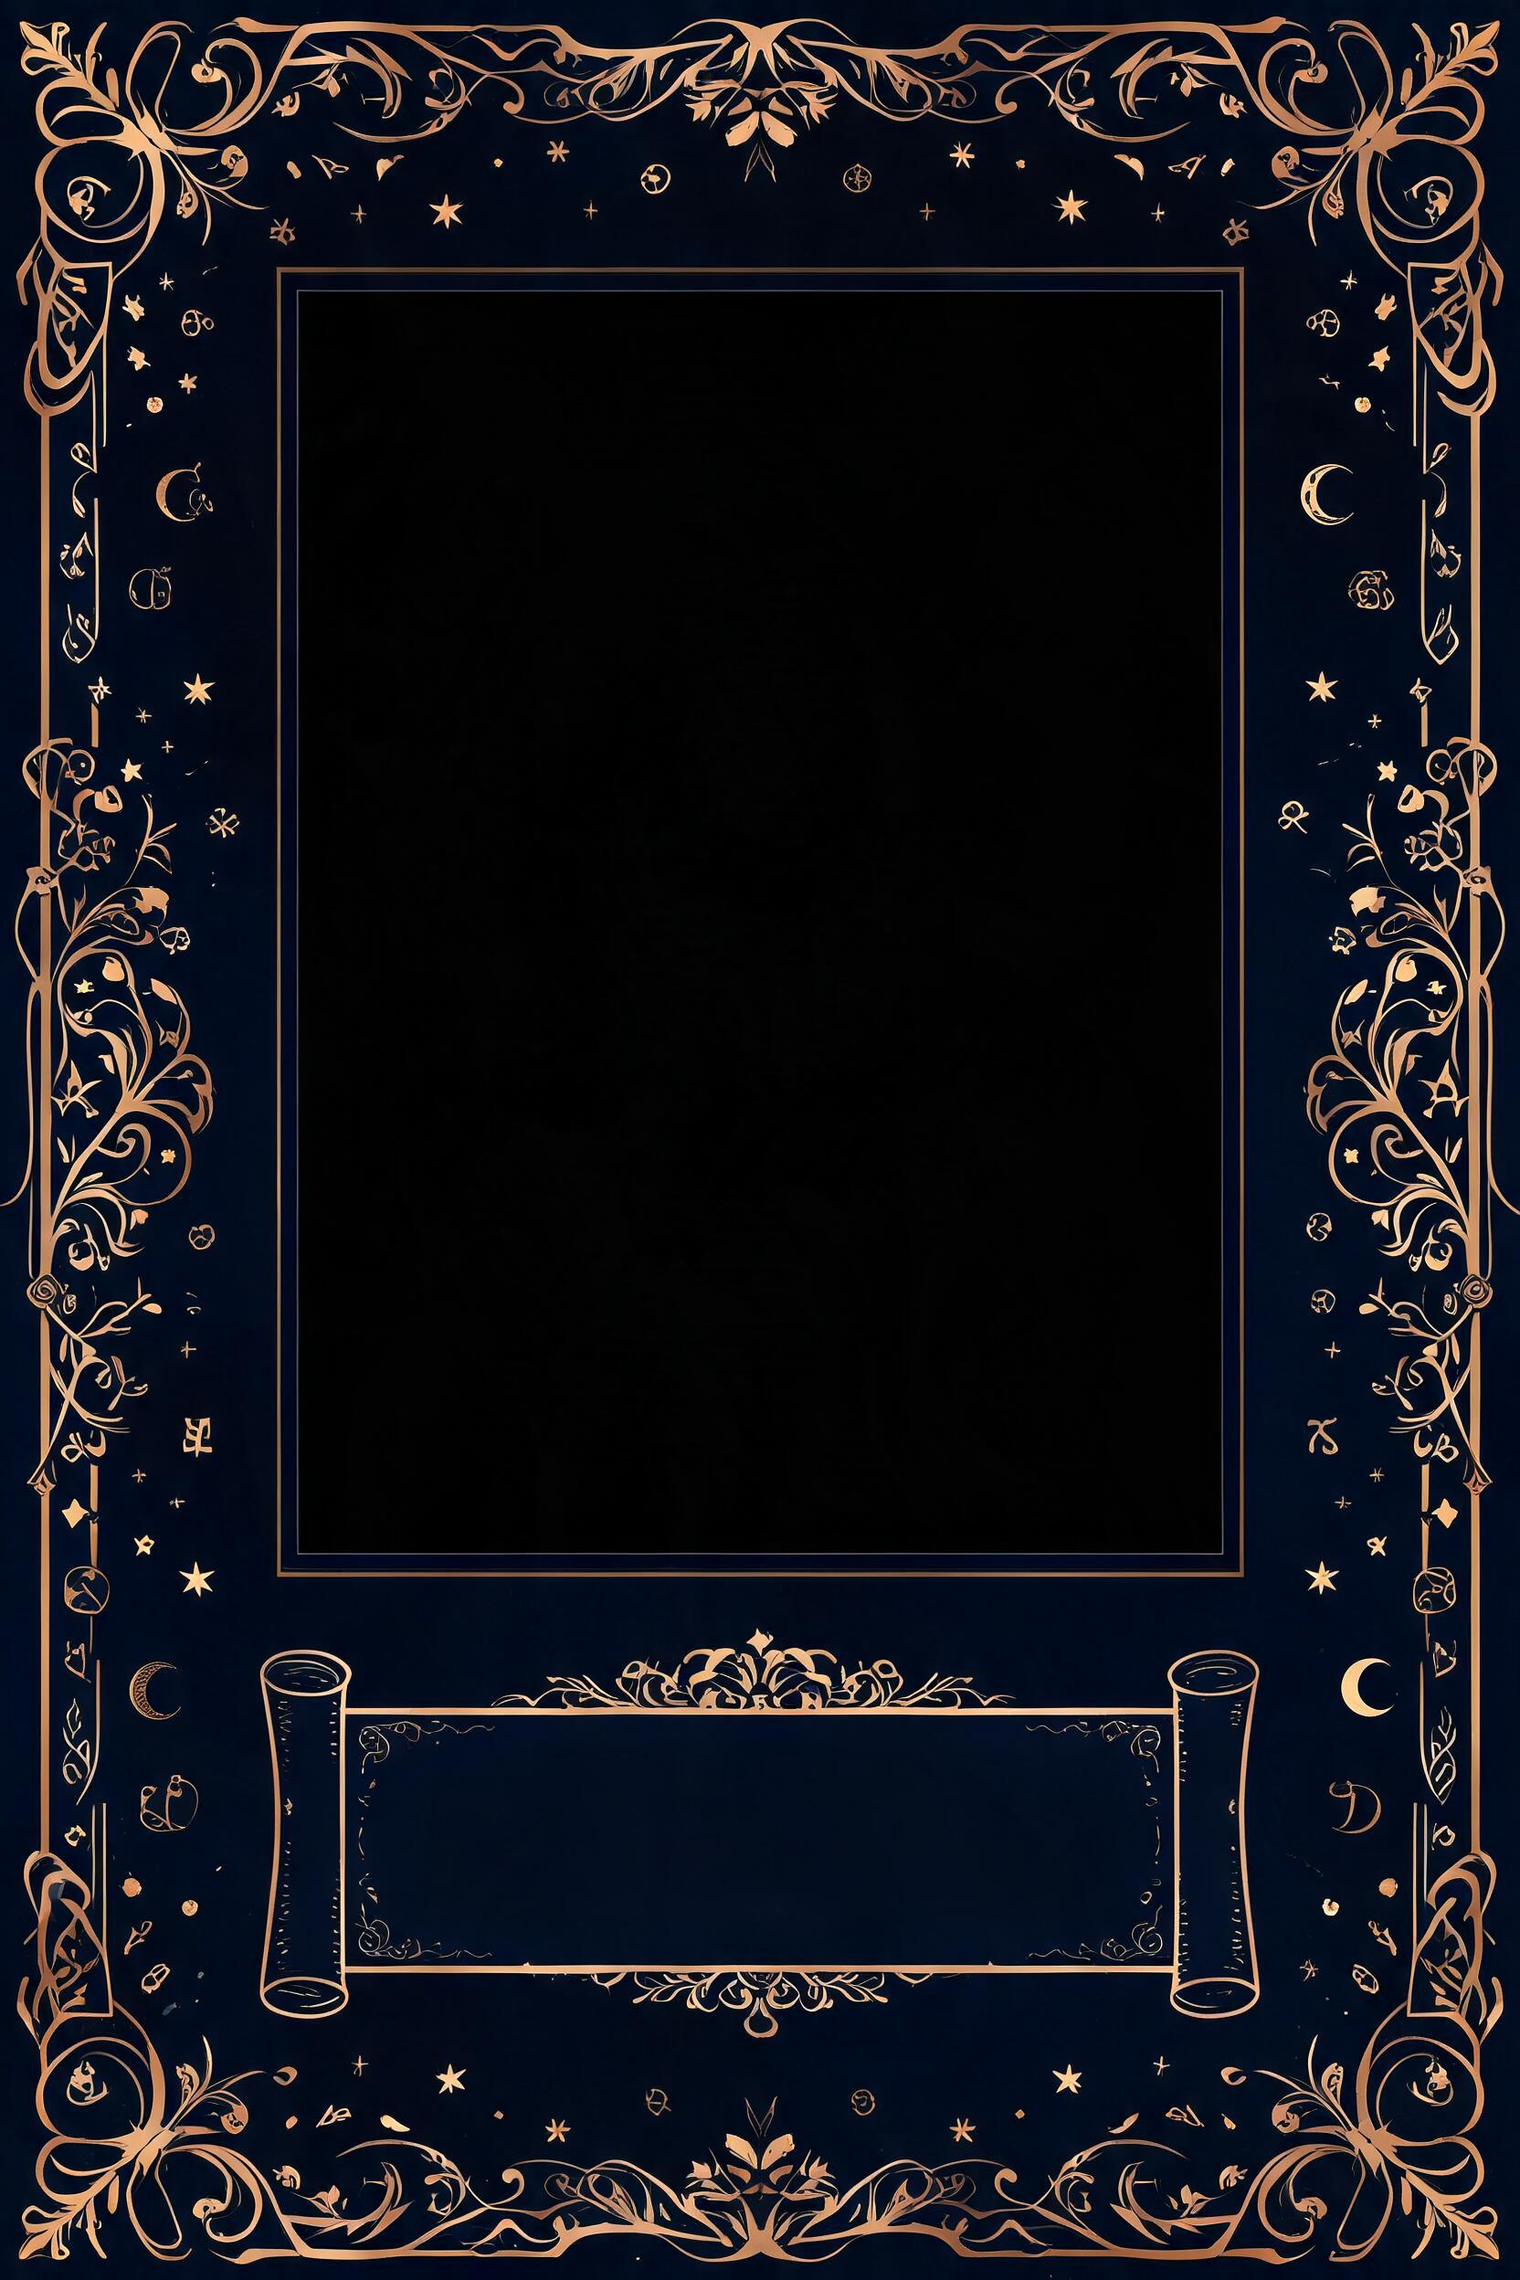
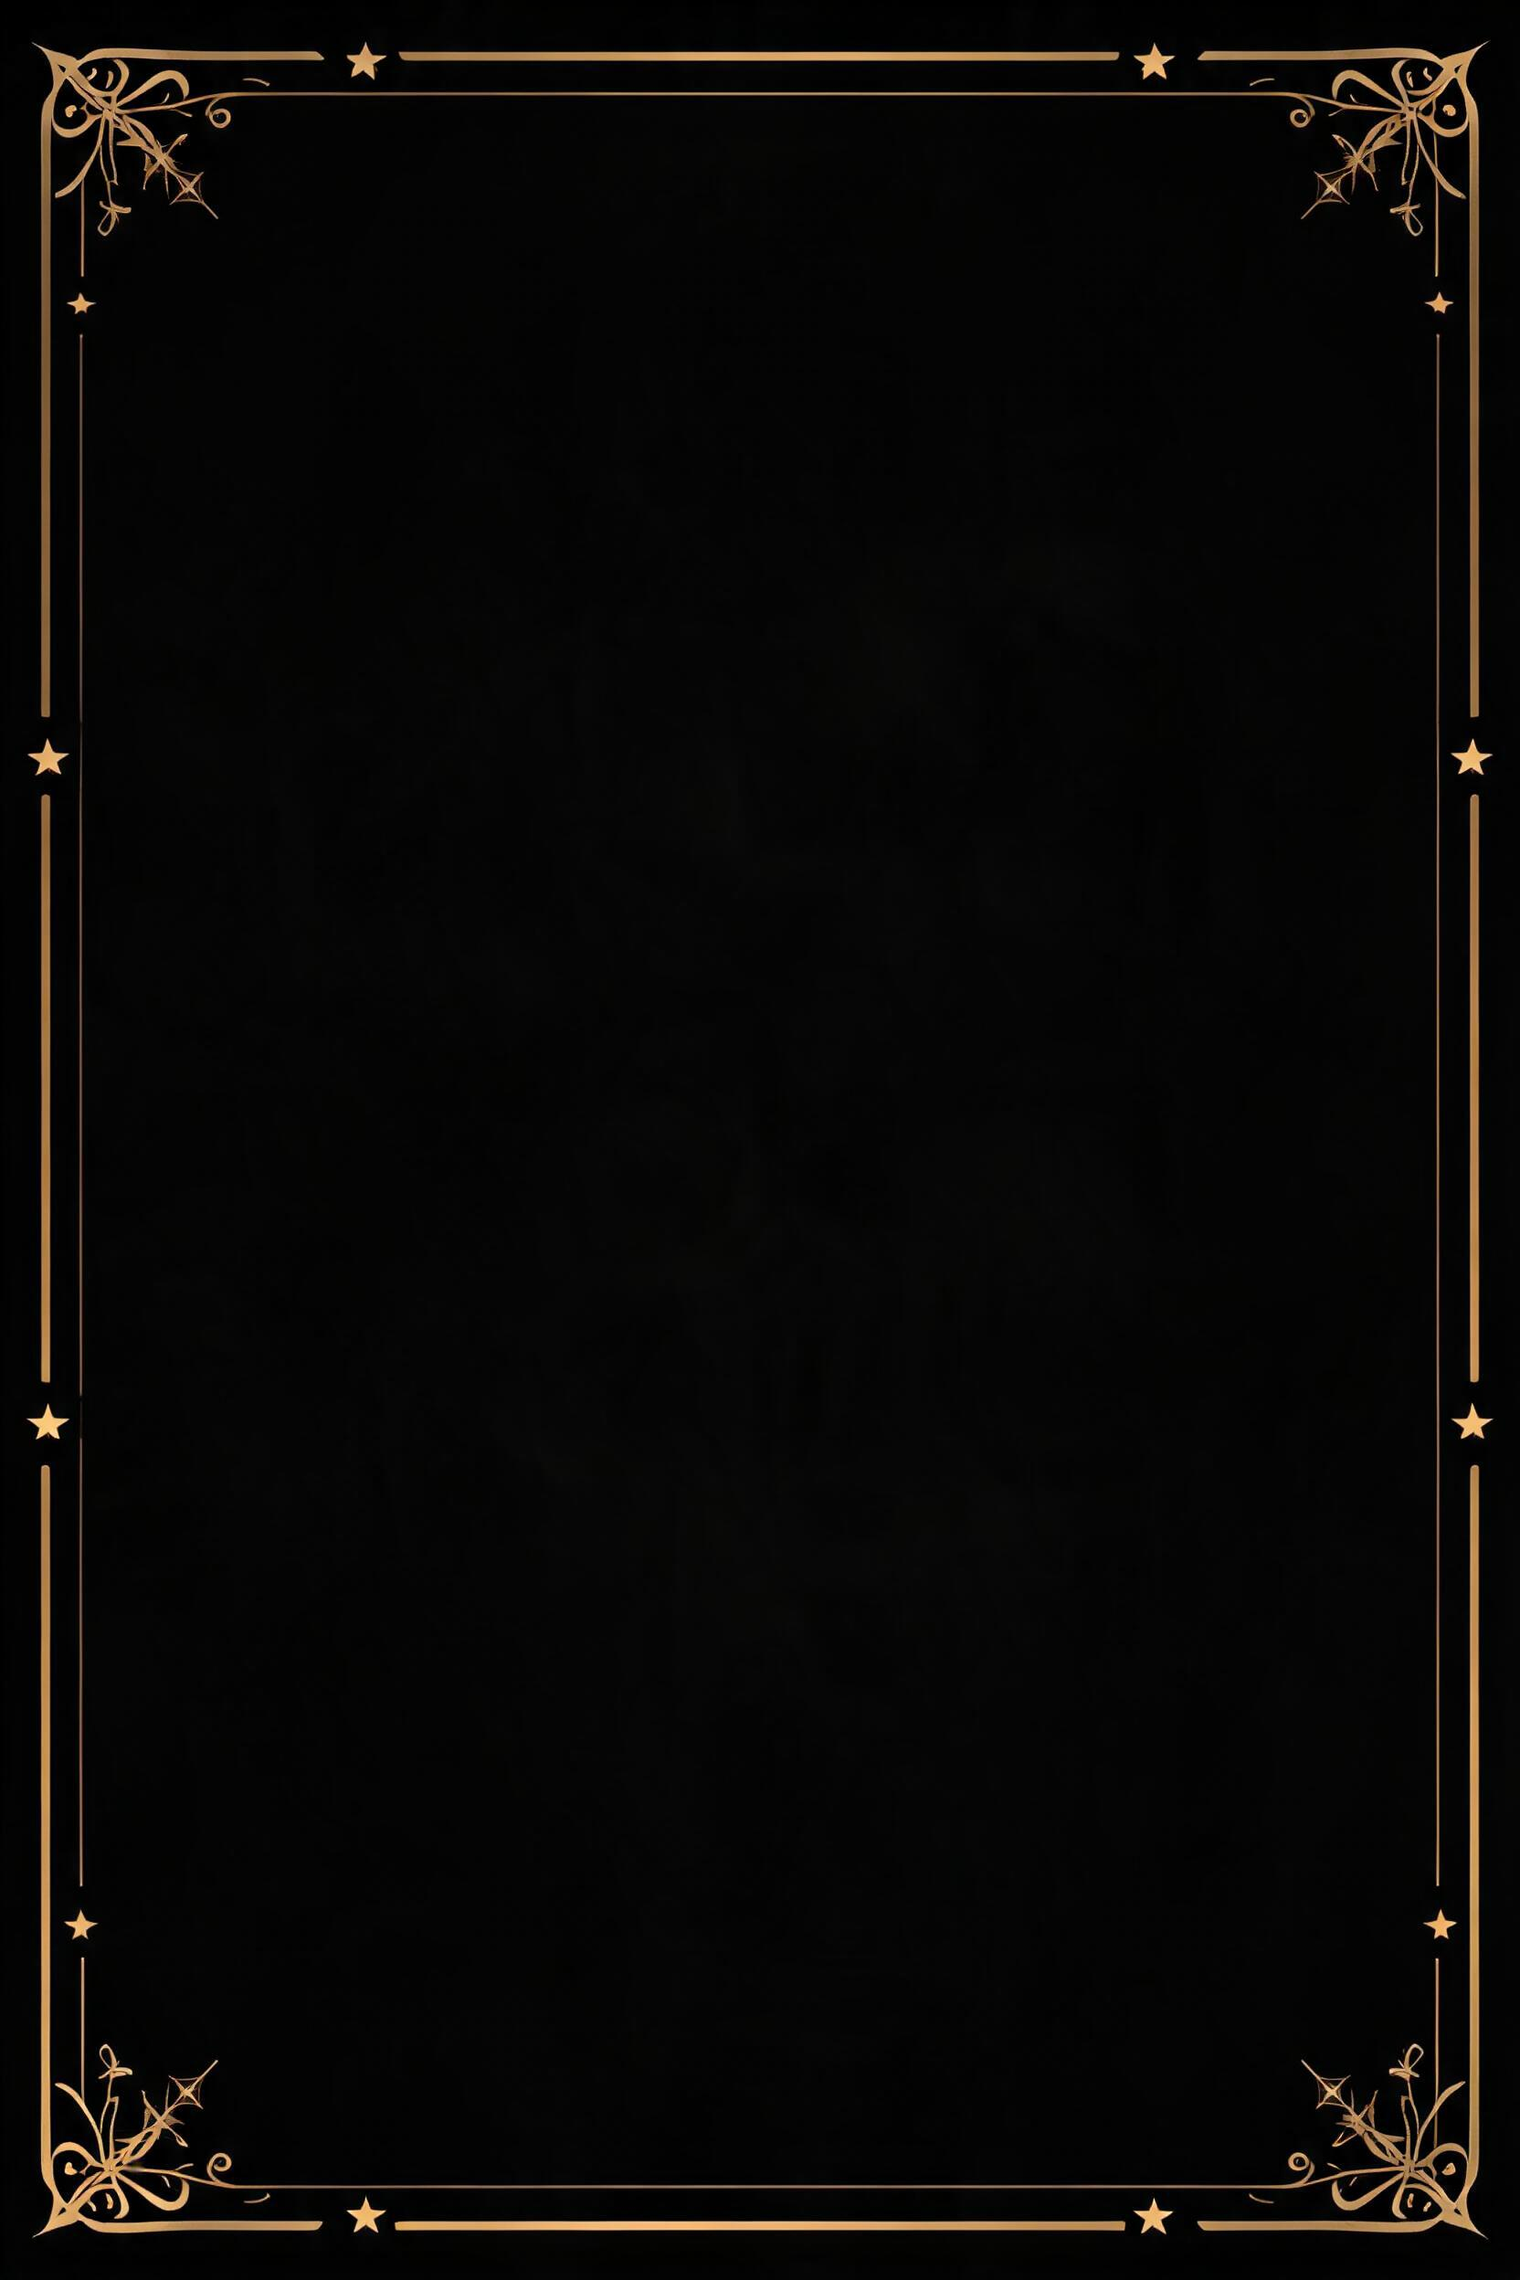
fix: 卡牌改极简细边版式——封面全幅铺满，卡片看上去就是图本身
按反馈重新用 Seedream 生成纤细边框（纯黑底 + 四周约 3% 宽的古金
魔法细线 + 小角饰；像素实测边宽 3.5%/2.7%、内部亮度均值 4.6）：
- 封面图全幅铺满整卡（原画窗版式封面只占 62%），细边框 screen
  混合叠加发光，不占画面
- 题名压缩成底部一条渐变字幕：单行居中衬线小字，副题同行更小号
  （字幕区仅 12.8% 高且上半为透明渐变）
- 类型宝石徽记缩小到 10.5% 宽
- 3D 桌面卡面同步：全幅封面 + 圆角裁剪 + 同款字幕条/徽记，
  与 2D 共用同一张框图与布局常量

diff --git a/src/components/TarotCard.tsx b/src/components/TarotCard.tsx
@@ -1,16 +1,17 @@
-// 塔罗风实体卡牌：卡框是 Seedream 生成的真实装饰边框（/cards/tarot-frame.jpg，
-// 古铜金魔法纹饰 + 纯黑画窗 + 卷轴题名牌匾），封面图铺满画窗最大化展示，
-// 类型以画窗角上的宝石徽记标注，题名按塔罗牌版式在下部牌匾居中衬线排印。
-// 画窗/牌匾的边界常量来自对生成图的像素探测（窗 y 5.7%~68.7%、x 13.5%~85.5%，
-// 牌匾平坦区 y 75%~86%）——换框图必须重新探测这组值。
+// 塔罗风实体卡牌：卡框是 Seedream 生成的真实装饰细边（/cards/tarot-frame.jpg，
+// 纯黑底 + 四周 ~3% 宽的古金魔法纹饰线 + 小角饰；像素实测边宽 3.5%/2.7%、
+// 内部亮度均值 4.6=纯黑）。封面图**全幅铺满整卡**（卡片看上去就是图本身），
+// 细边框经 screen 混合叠在图上发光；题名压缩为底部一条渐变里的单行小字，
+// 类型是左上角一枚小宝石徽记——边框/文字/徽记合计只占极小面积。
 import { CARD_TYPE_COLORS, CARD_TYPE_LABELS, CardType } from "../types";
 
 export const TAROT_FRAME_URL = "/cards/tarot-frame.jpg";
 
-/** 画窗与题名区在整卡中的相对边界（与 3D 卡面纹理共用同一组常量） */
+/** 封面区与题名条在整卡中的相对边界（与 3D 卡面纹理共用同一组常量）。
+ *  细边框方案下封面全幅；banner 只是底部一条渐变字幕区。 */
 export const TAROT_LAYOUT = {
-  win: { left: 0.138, top: 0.06, width: 0.714, height: 0.622 },
-  banner: { top: 0.72, height: 0.21 },
+  win: { left: 0, top: 0, width: 1, height: 1 },
+  banner: { top: 0.87, height: 0.13 },
 };
 
 /** 类型徽记单字：宝石章里放不下三个字，取最具辨识度的一个 */
@@ -42,51 +43,39 @@ export default function TarotCard({
   size?: "sm" | "md";
 }) {
   const color = type ? CARD_TYPE_COLORS[type] : "#fbbf24";
-  const L = TAROT_LAYOUT;
   return (
     <div
-      className={`relative aspect-[2/3] w-full select-none overflow-hidden rounded-[6%] bg-[#0a0f22] ${
+      className={`relative aspect-[2/3] w-full select-none overflow-hidden rounded-[5%] bg-black ${
         active ? "ring-2 ring-gold shadow-[0_0_14px_rgba(251,191,36,0.45)]" : ""
       }`}
     >
-      {/* 封面铺满画窗（先画） */}
-      <div
-        className="absolute overflow-hidden"
-        style={{
-          left: `${L.win.left * 100}%`,
-          top: `${L.win.top * 100}%`,
-          width: `${L.win.width * 100}%`,
-          height: `${L.win.height * 100}%`,
-        }}
-      >
-        {cover ? (
-          <img src={cover} alt="" className="absolute inset-0 h-full w-full object-cover" />
-        ) : (
-          <div className="absolute inset-0 flex items-center justify-center text-2xl opacity-50">🔮</div>
-        )}
-      </div>
-      {/* 魔法边框叠在封面之上：画窗是纯黑的，混合模式 screen 让边框区不透明、
-          画窗区完全透出封面——省去抠透明通道 */}
+      {/* 封面全幅铺满——卡片看上去就是图本身 */}
+      {cover ? (
+        <img src={cover} alt="" className="absolute inset-0 h-full w-full object-cover" />
+      ) : (
+        <div className="absolute inset-0 flex items-center justify-center text-3xl opacity-40">🔮</div>
+      )}
+      {/* 纤细魔法边框叠加：框图内部纯黑，screen 混合下黑=透明，只有金线发光 */}
       <img
         src={TAROT_FRAME_URL}
         alt=""
         className="pointer-events-none absolute inset-0 h-full w-full mix-blend-screen"
       />
-      {/* 类型宝石徽记（特别标注，不占画面）：悬浮在画窗左上角 */}
+      {/* 类型宝石徽记：左上角一枚小章 */}
       {type && (
         <div
           className={`absolute flex items-center justify-center rounded-full font-bold ${
-            size === "md" ? "text-[13px]" : "text-[10px]"
+            size === "md" ? "text-[11px]" : "text-[9px]"
           }`}
           style={{
-            left: `${(L.win.left + 0.015) * 100}%`,
-            top: `${(L.win.top + 0.012) * 100}%`,
-            width: "13.5%",
+            left: "4.5%",
+            top: "3.2%",
+            width: "10.5%",
             aspectRatio: "1",
             color,
-            border: `2px solid ${color}`,
-            background: "rgba(6,10,25,0.82)",
-            boxShadow: `0 0 8px ${color}aa, inset 0 0 6px ${color}55`,
+            border: `1.5px solid ${color}`,
+            background: "rgba(4,7,18,0.72)",
+            boxShadow: `0 0 6px ${color}99`,
             fontFamily: SERIF,
           }}
           title={CARD_TYPE_LABELS[type]}
@@ -94,29 +83,24 @@ export default function TarotCard({
           {TYPE_GLYPH[type]}
         </div>
       )}
-      {/* 塔罗式题名：下部牌匾居中、衬线、字距拉开、淡金色 */}
-      <div
-        className="absolute flex flex-col items-center justify-center px-[12%]"
-        style={{ top: `${L.banner.top * 100}%`, height: `${L.banner.height * 100}%`, left: 0, right: 0 }}
-      >
-        <div
-          className={`max-w-full truncate text-center font-bold text-amber-100 ${
-            size === "md" ? "text-[15px]" : "text-[11px]"
-          }`}
-          style={{ fontFamily: SERIF, letterSpacing: "0.18em", textShadow: "0 0 6px rgba(251,191,36,0.35)" }}
-        >
-          {title}
-        </div>
-        {sub && (
-          <div
-            className={`mt-0.5 max-w-full truncate text-center text-amber-200/65 ${
-              size === "md" ? "text-[10px]" : "text-[8px]"
-            }`}
-            style={{ fontFamily: SERIF, letterSpacing: "0.3em" }}
+      {/* 题名：底部一条渐变字幕，单行居中衬线小字（塔罗排版但只占极小高度） */}
+      <div className="absolute inset-x-0 bottom-0 bg-gradient-to-t from-black/85 via-black/45 to-transparent px-[7%] pb-[4.5%] pt-[10%]">
+        <div className="flex items-baseline justify-center gap-1 overflow-hidden whitespace-nowrap text-center">
+          <span
+            className={`truncate font-bold text-amber-100 ${size === "md" ? "text-[13px]" : "text-[10px]"}`}
+            style={{ fontFamily: SERIF, letterSpacing: "0.14em", textShadow: "0 0 5px rgba(251,191,36,0.35)" }}
           >
-            {sub}
-          </div>
-        )}
+            {title}
+          </span>
+          {sub && (
+            <span
+              className={`flex-none text-amber-200/60 ${size === "md" ? "text-[9px]" : "text-[7px]"}`}
+              style={{ fontFamily: SERIF, letterSpacing: "0.12em" }}
+            >
+              {sub}
+            </span>
+          )}
+        </div>
       </div>
     </div>
   );

diff --git a/src/studio/scene/cardTexture.ts b/src/studio/scene/cardTexture.ts
@@ -96,83 +96,86 @@ const H = 768;
 
 const SERIF_CANVAS = `'Songti SC','STSong','SimSun','Noto Serif SC',serif`;
 
-/** 素材卡卡面：塔罗版式（生成边框 + 满窗封面 + 牌匾题名 + 类型宝石徽记） */
+/** 素材卡卡面：塔罗细边版式——封面全幅铺满（卡片≈图片本身），纤细生成边框
+ *  screen 叠加发光，底部一条渐变里放单行题名，类型是左上角小宝石徽记。
+ *  与 2D 的 TarotCard 组件共用同一张框图与 TAROT_LAYOUT 常量。 */
 export function cardFaceTexture(card: Card): THREE.CanvasTexture {
   const color = CARD_TYPE_COLORS[card.type];
   const L = TAROT_LAYOUT;
   return texFromDraw(`card:${card.id}`, W, H, [card.cover, TAROT_FRAME_URL], (ctx, [cover, frame]) => {
-    // 卡底
-    roundedPath(ctx, 0, 0, W, H, 30);
-    ctx.fillStyle = "#0a0f22";
+    // 卡底 + 圆角裁剪：封面全幅时不裁剪会把圆角画成方角
+    roundedPath(ctx, 0, 0, W, H, 26);
+    ctx.fillStyle = "#05070f";
     ctx.fill();
-    // 封面铺满画窗
-    const wx = L.win.left * W;
-    const wy = L.win.top * H;
-    const ww = L.win.width * W;
-    const wh = L.win.height * H;
-    if (cover) {
-      ctx.save();
-      ctx.beginPath();
-      ctx.rect(wx, wy, ww, wh);
-      ctx.clip();
-      drawImageCover(ctx, cover, wx, wy, ww, wh);
-      ctx.restore();
-    }
-    // 魔法边框叠加：画窗区是纯黑，screen 混合让封面完整透出、边框纹饰点亮
+    ctx.save();
+    roundedPath(ctx, 0, 0, W, H, 26);
+    ctx.clip();
+    if (cover) drawImageCover(ctx, cover, 0, 0, W, H);
+    // 纤细魔法边框：框图内部纯黑，screen 混合下黑=透明，只有金线发光
     if (frame) {
-      ctx.save();
       ctx.globalCompositeOperation = "screen";
       ctx.drawImage(frame, 0, 0, W, H);
-      ctx.restore();
-    } else {
-      // 框图未就绪的一两帧：先给个细边撑住卡形
-      roundedPath(ctx, 4, 4, W - 8, H - 8, 28);
-      ctx.lineWidth = 6;
-      ctx.strokeStyle = "#8a6d3b";
-      ctx.stroke();
+      ctx.globalCompositeOperation = "source-over";
     }
-    // 类型宝石徽记：画窗左上角（特别标注，不吃画面）
-    const br = W * 0.068;
-    const bx = wx + br + W * 0.012;
-    const by = wy + br + W * 0.012;
+    // 底部渐变字幕条（题名区，占卡面 ~13%）
+    const gy = L.banner.top * H;
+    const g = ctx.createLinearGradient(0, gy - H * 0.04, 0, H);
+    g.addColorStop(0, "rgba(0,0,0,0)");
+    g.addColorStop(0.45, "rgba(0,0,0,0.45)");
+    g.addColorStop(1, "rgba(0,0,0,0.85)");
+    ctx.fillStyle = g;
+    ctx.fillRect(0, gy - H * 0.04, W, H - gy + H * 0.04);
+    ctx.restore();
+    // 类型宝石徽记：左上角一枚小章
+    const br = W * 0.0525;
+    const bx = W * 0.045 + br;
+    const by = H * 0.032 + br;
     ctx.beginPath();
     ctx.arc(bx, by, br, 0, Math.PI * 2);
-    ctx.fillStyle = "rgba(6,10,25,0.82)";
+    ctx.fillStyle = "rgba(4,7,18,0.72)";
     ctx.fill();
-    ctx.lineWidth = 4;
+    ctx.lineWidth = 3;
     ctx.strokeStyle = color;
     ctx.shadowColor = color;
-    ctx.shadowBlur = 14;
+    ctx.shadowBlur = 10;
     ctx.stroke();
     ctx.shadowBlur = 0;
-    ctx.font = `700 ${Math.round(br * 1.1)}px ${SERIF_CANVAS}`;
+    ctx.font = `700 ${Math.round(br * 1.15)}px ${SERIF_CANVAS}`;
     ctx.textAlign = "center";
     ctx.textBaseline = "middle";
     ctx.fillStyle = color;
-    ctx.fillText(TYPE_GLYPH[card.type], bx, by + 2);
-    // 塔罗式题名：牌匾区居中、衬线、拉字距、淡金
+    ctx.fillText(TYPE_GLYPH[card.type], bx, by + 1);
+    // 单行题名：名称 + 小号副题（类型/热度）同行居中，衬线拉字距
     const name = card.name.length > 7 ? card.name.slice(0, 7) + "…" : card.name;
-    const cy = (L.banner.top + L.banner.height / 2) * H;
-    ctx.font = `700 52px ${SERIF_CANVAS}`;
-    const canSpace = "letterSpacing" in ctx;
-    if (canSpace) (ctx as CanvasRenderingContext2D & { letterSpacing: string }).letterSpacing = "8px";
-    ctx.fillStyle = "#fde9c8";
-    ctx.shadowColor = "rgba(251,191,36,0.4)";
-    ctx.shadowBlur = 10;
-    ctx.fillText(name, W / 2, cy - 16);
-    ctx.shadowBlur = 0;
-    // 副题：类型全称 + 热度
-    ctx.font = `500 26px ${SERIF_CANVAS}`;
-    if (canSpace) (ctx as CanvasRenderingContext2D & { letterSpacing: string }).letterSpacing = "10px";
-    ctx.fillStyle = "rgba(253,230,190,0.62)";
     const sub =
       card.hot != null
         ? `${CARD_TYPE_LABELS[card.type]} · ${card.hot >= 10000 ? (card.hot / 10000).toFixed(1) + "万" : card.hot}`
         : CARD_TYPE_LABELS[card.type];
-    ctx.fillText(sub, W / 2, cy + 40);
-    if (canSpace) (ctx as CanvasRenderingContext2D & { letterSpacing: string }).letterSpacing = "0px";
+    const canSpace = "letterSpacing" in ctx;
+    const cx2 = ctx as CanvasRenderingContext2D & { letterSpacing: string };
+    ctx.font = `700 40px ${SERIF_CANVAS}`;
+    if (canSpace) cx2.letterSpacing = "5px";
+    const w1 = ctx.measureText(name).width;
+    ctx.font = `500 22px ${SERIF_CANVAS}`;
+    if (canSpace) cx2.letterSpacing = "3px";
+    const w2 = ctx.measureText(sub).width;
+    const gap = 16;
+    const startX = (W - (w1 + gap + w2)) / 2;
+    const ty = H * 0.945;
     ctx.textAlign = "left";
     ctx.textBaseline = "alphabetic";
+    ctx.font = `700 40px ${SERIF_CANVAS}`;
+    if (canSpace) cx2.letterSpacing = "5px";
+    ctx.fillStyle = "#fde9c8";
+    ctx.shadowColor = "rgba(251,191,36,0.4)";
+    ctx.shadowBlur = 8;
+    ctx.fillText(name, Math.max(20, startX), ty);
+    ctx.shadowBlur = 0;
+    ctx.font = `500 22px ${SERIF_CANVAS}`;
+    if (canSpace) cx2.letterSpacing = "3px";
+    ctx.fillStyle = "rgba(253,230,190,0.6)";
+    ctx.fillText(sub, Math.max(20, startX) + w1 + gap, ty);
+    if (canSpace) cx2.letterSpacing = "0px";
   });
 }
 
